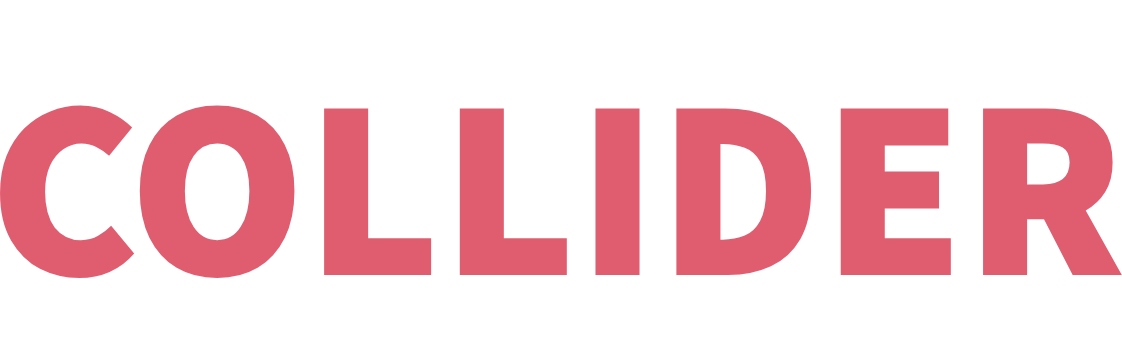
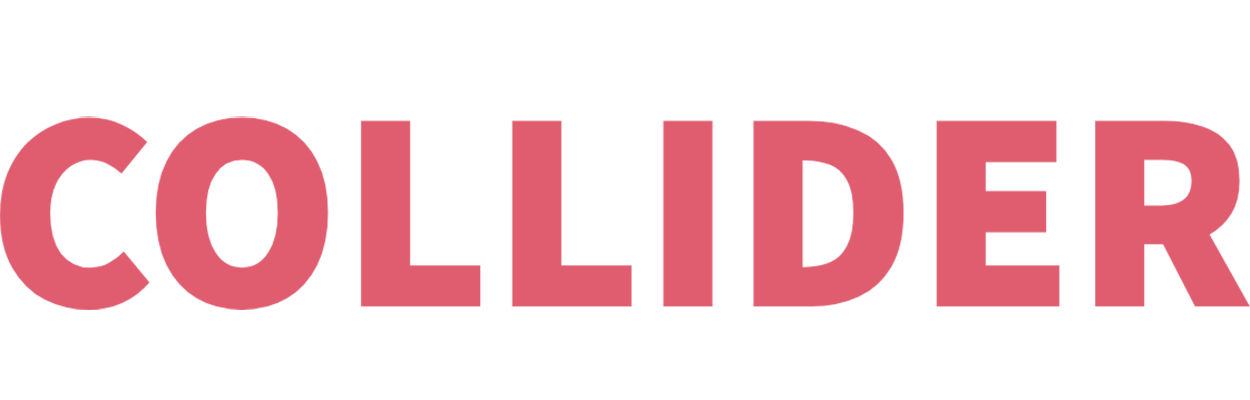
Cambio en imagen collider para mantener aspect ratio

Changed region(s): [[0.967, 0.7354, 1.0, 0.766], [0.4055, 0.7354, 0.4367, 0.766]]

diff --git a/src/components/Navbar.jsx b/src/components/Navbar.jsx
@@ -35,8 +35,8 @@ export function Navbar(){
       
       <div className='pl-8 w-[100%]'>
         <Button tabIndex={0}  aria-label="Isotipo" disableRipple className='h-full' style={{ backgroundColor: 'transparent' }} onClick={()=> btnScrollTo('idHome')}>
-          <img className='h-[40px]' src="assets/navbar/isotipo.svg" alt="Isotipo" />
-          <img className='h-[40px] ml-1 invisible md:visible' src="assets/navbar/collider.png" alt="Collider" />
+          <img className='h-[40px] w-[40px]' src="assets/navbar/isotipo.svg" alt="Isotipo" />
+          <img className='h-[40px] w-[125px] ml-1 invisible md:visible' src="assets/navbar/collider.png" alt="Collider" />
         </Button>
       </div>
   
